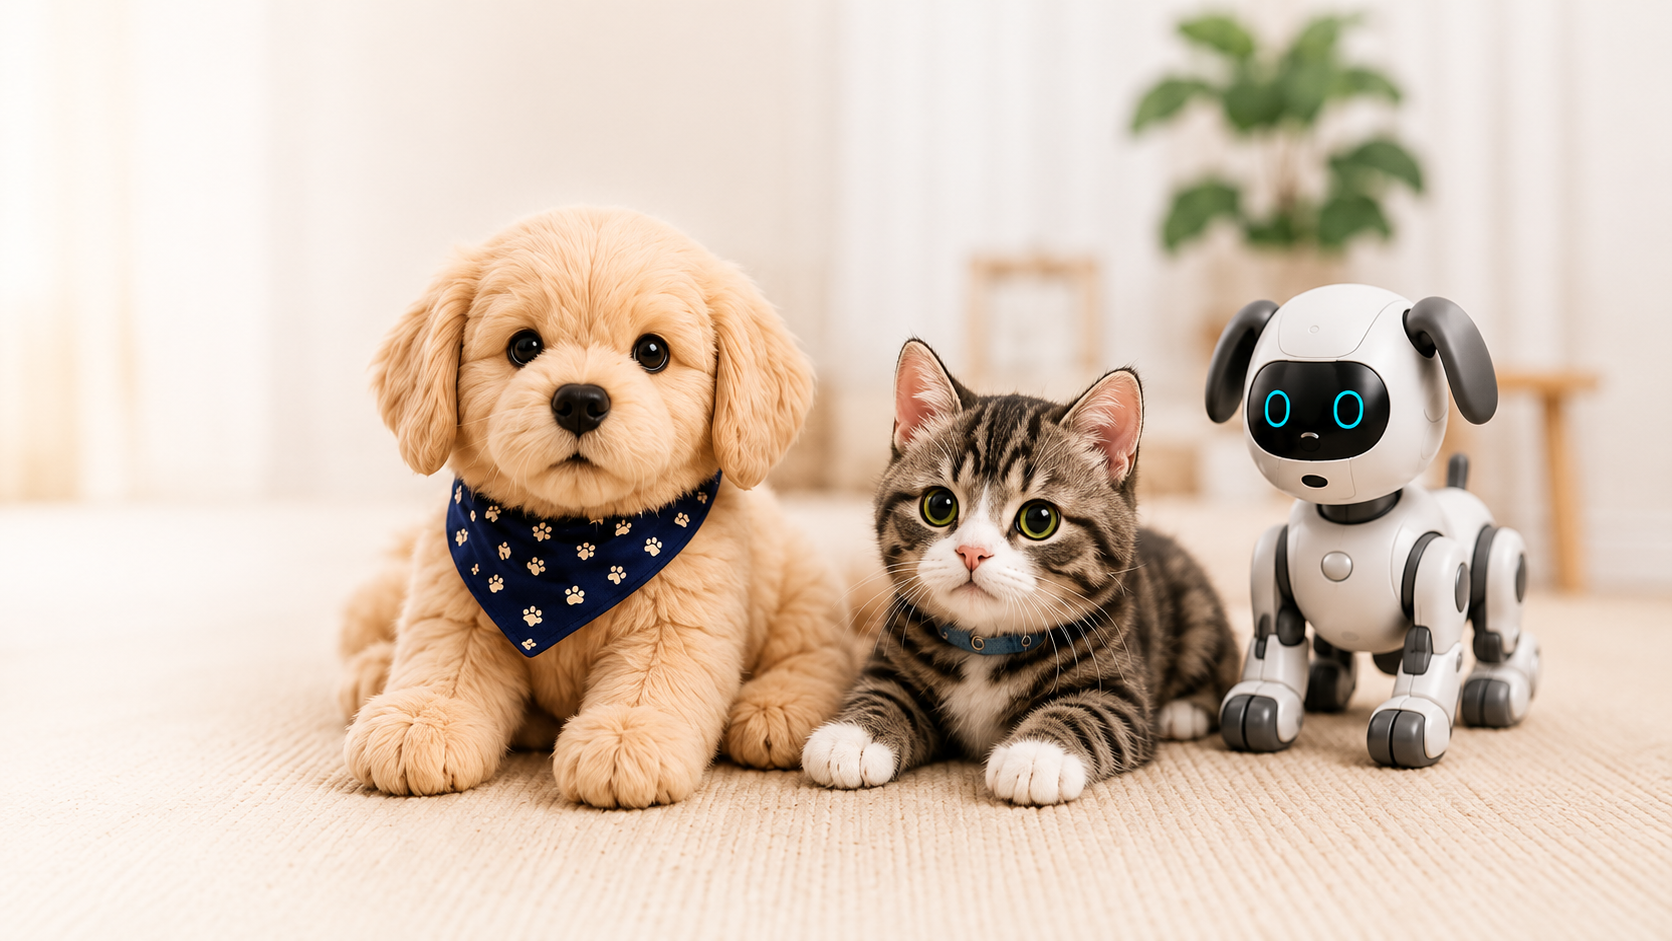
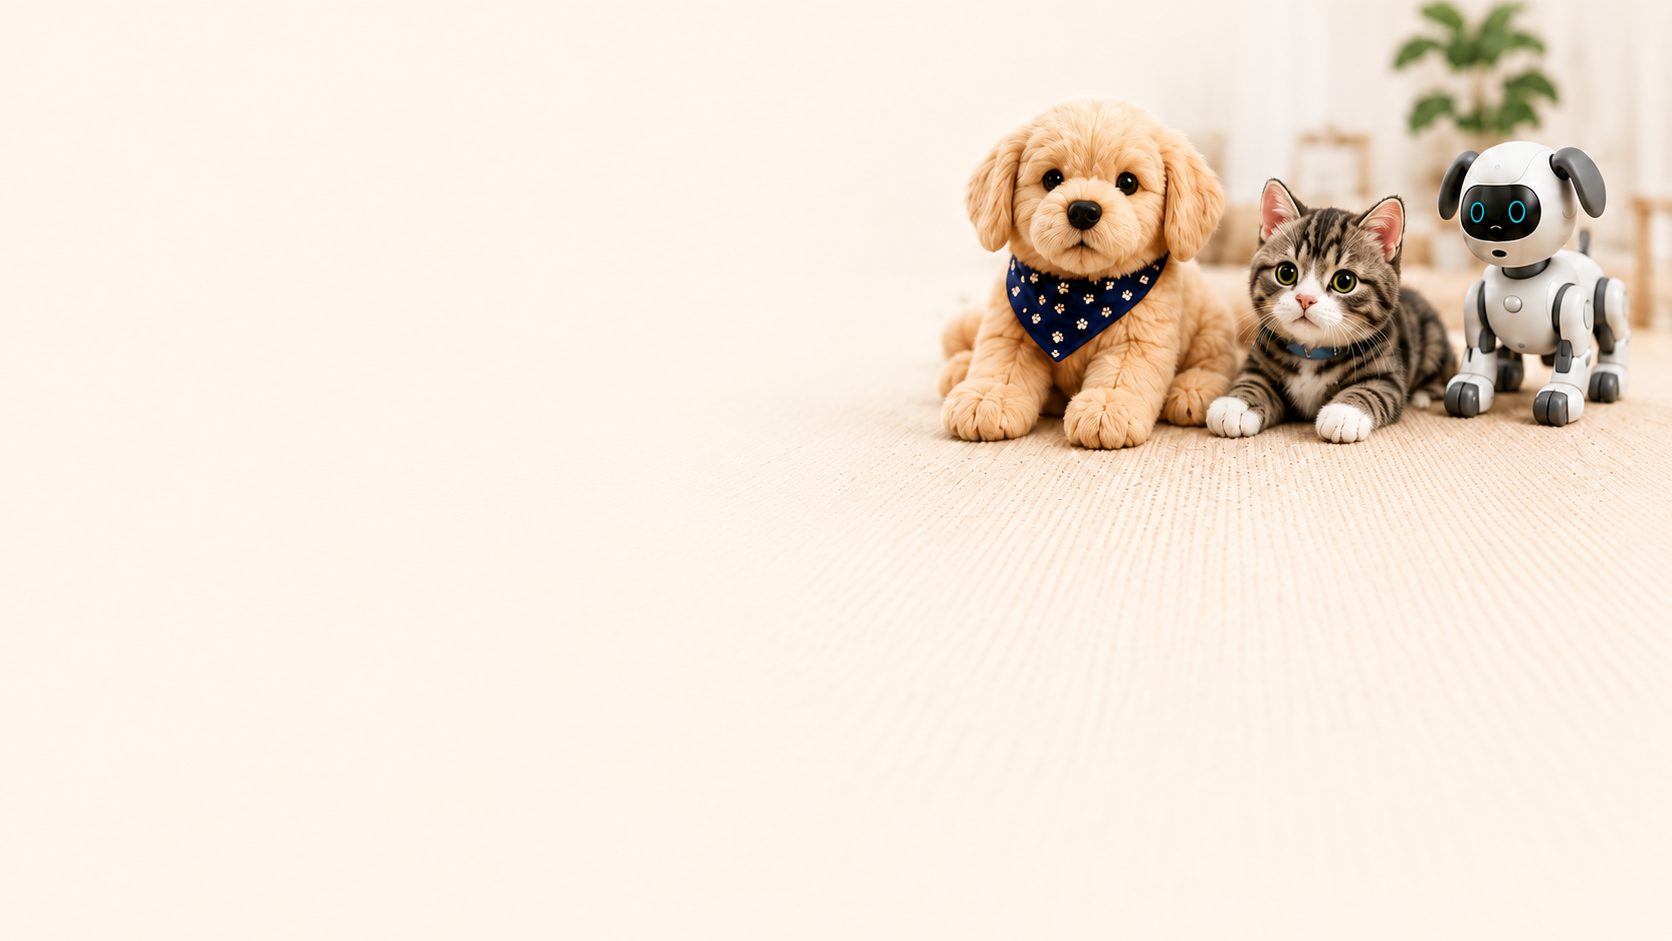
Warm golden redesign, product images, layout cleanup

diff --git a/components/homepage-sections.tsx b/components/homepage-sections.tsx
@@ -131,7 +131,7 @@ function IconSearch({ className }: { className?: string }) {
 
 export function HomepageHero() {
   // MateCat Pro — pinned by slug, verified data from Product Matrix via site-data.ts
-  const featured = products.find((p) => p.slug === "matecat-pro");
+  const featured = products.find((p) => p.slug === "percy-robot-cat");
 
   return (
     /*
@@ -222,8 +222,8 @@ export function HomepageHero() {
            *   bottom bleeds → section has no overflow-hidden so the card extends
            *                    naturally below the hero background into the next section
            *   z-50          → floats above Popular Categories white background
-           *   w-56 (224px)  → matches runner-card aspect ratio
-           *   right-0       → flush with right edge of the column
+           *   w-80 (320px)  → wide enough for feature chip text to wrap cleanly
+           *   centered       → left:50% + translateX(-50%) centres within column
            *
            * Visual separation: layered shadow gives clear z-depth so the card reads
            * as interface chrome, not a label for the animals in the background.
@@ -231,10 +231,11 @@ export function HomepageHero() {
           {featured && (
             <div className="relative hidden lg:block">
               <div
-                className="absolute w-56"
+                className="absolute w-80"
                 style={{
-                  top: "330px",
-                  right: "0",
+                  top: "220px",
+                  left: "50%",
+                  transform: "translateX(-50%)",
                   zIndex: 50,
                   // Layered shadow: subtle ambient + deeper drop for UI-element feel
                   filter: "drop-shadow(0 2px 6px rgba(0,0,0,0.07)) drop-shadow(0 14px 44px rgba(0,0,0,0.17))",